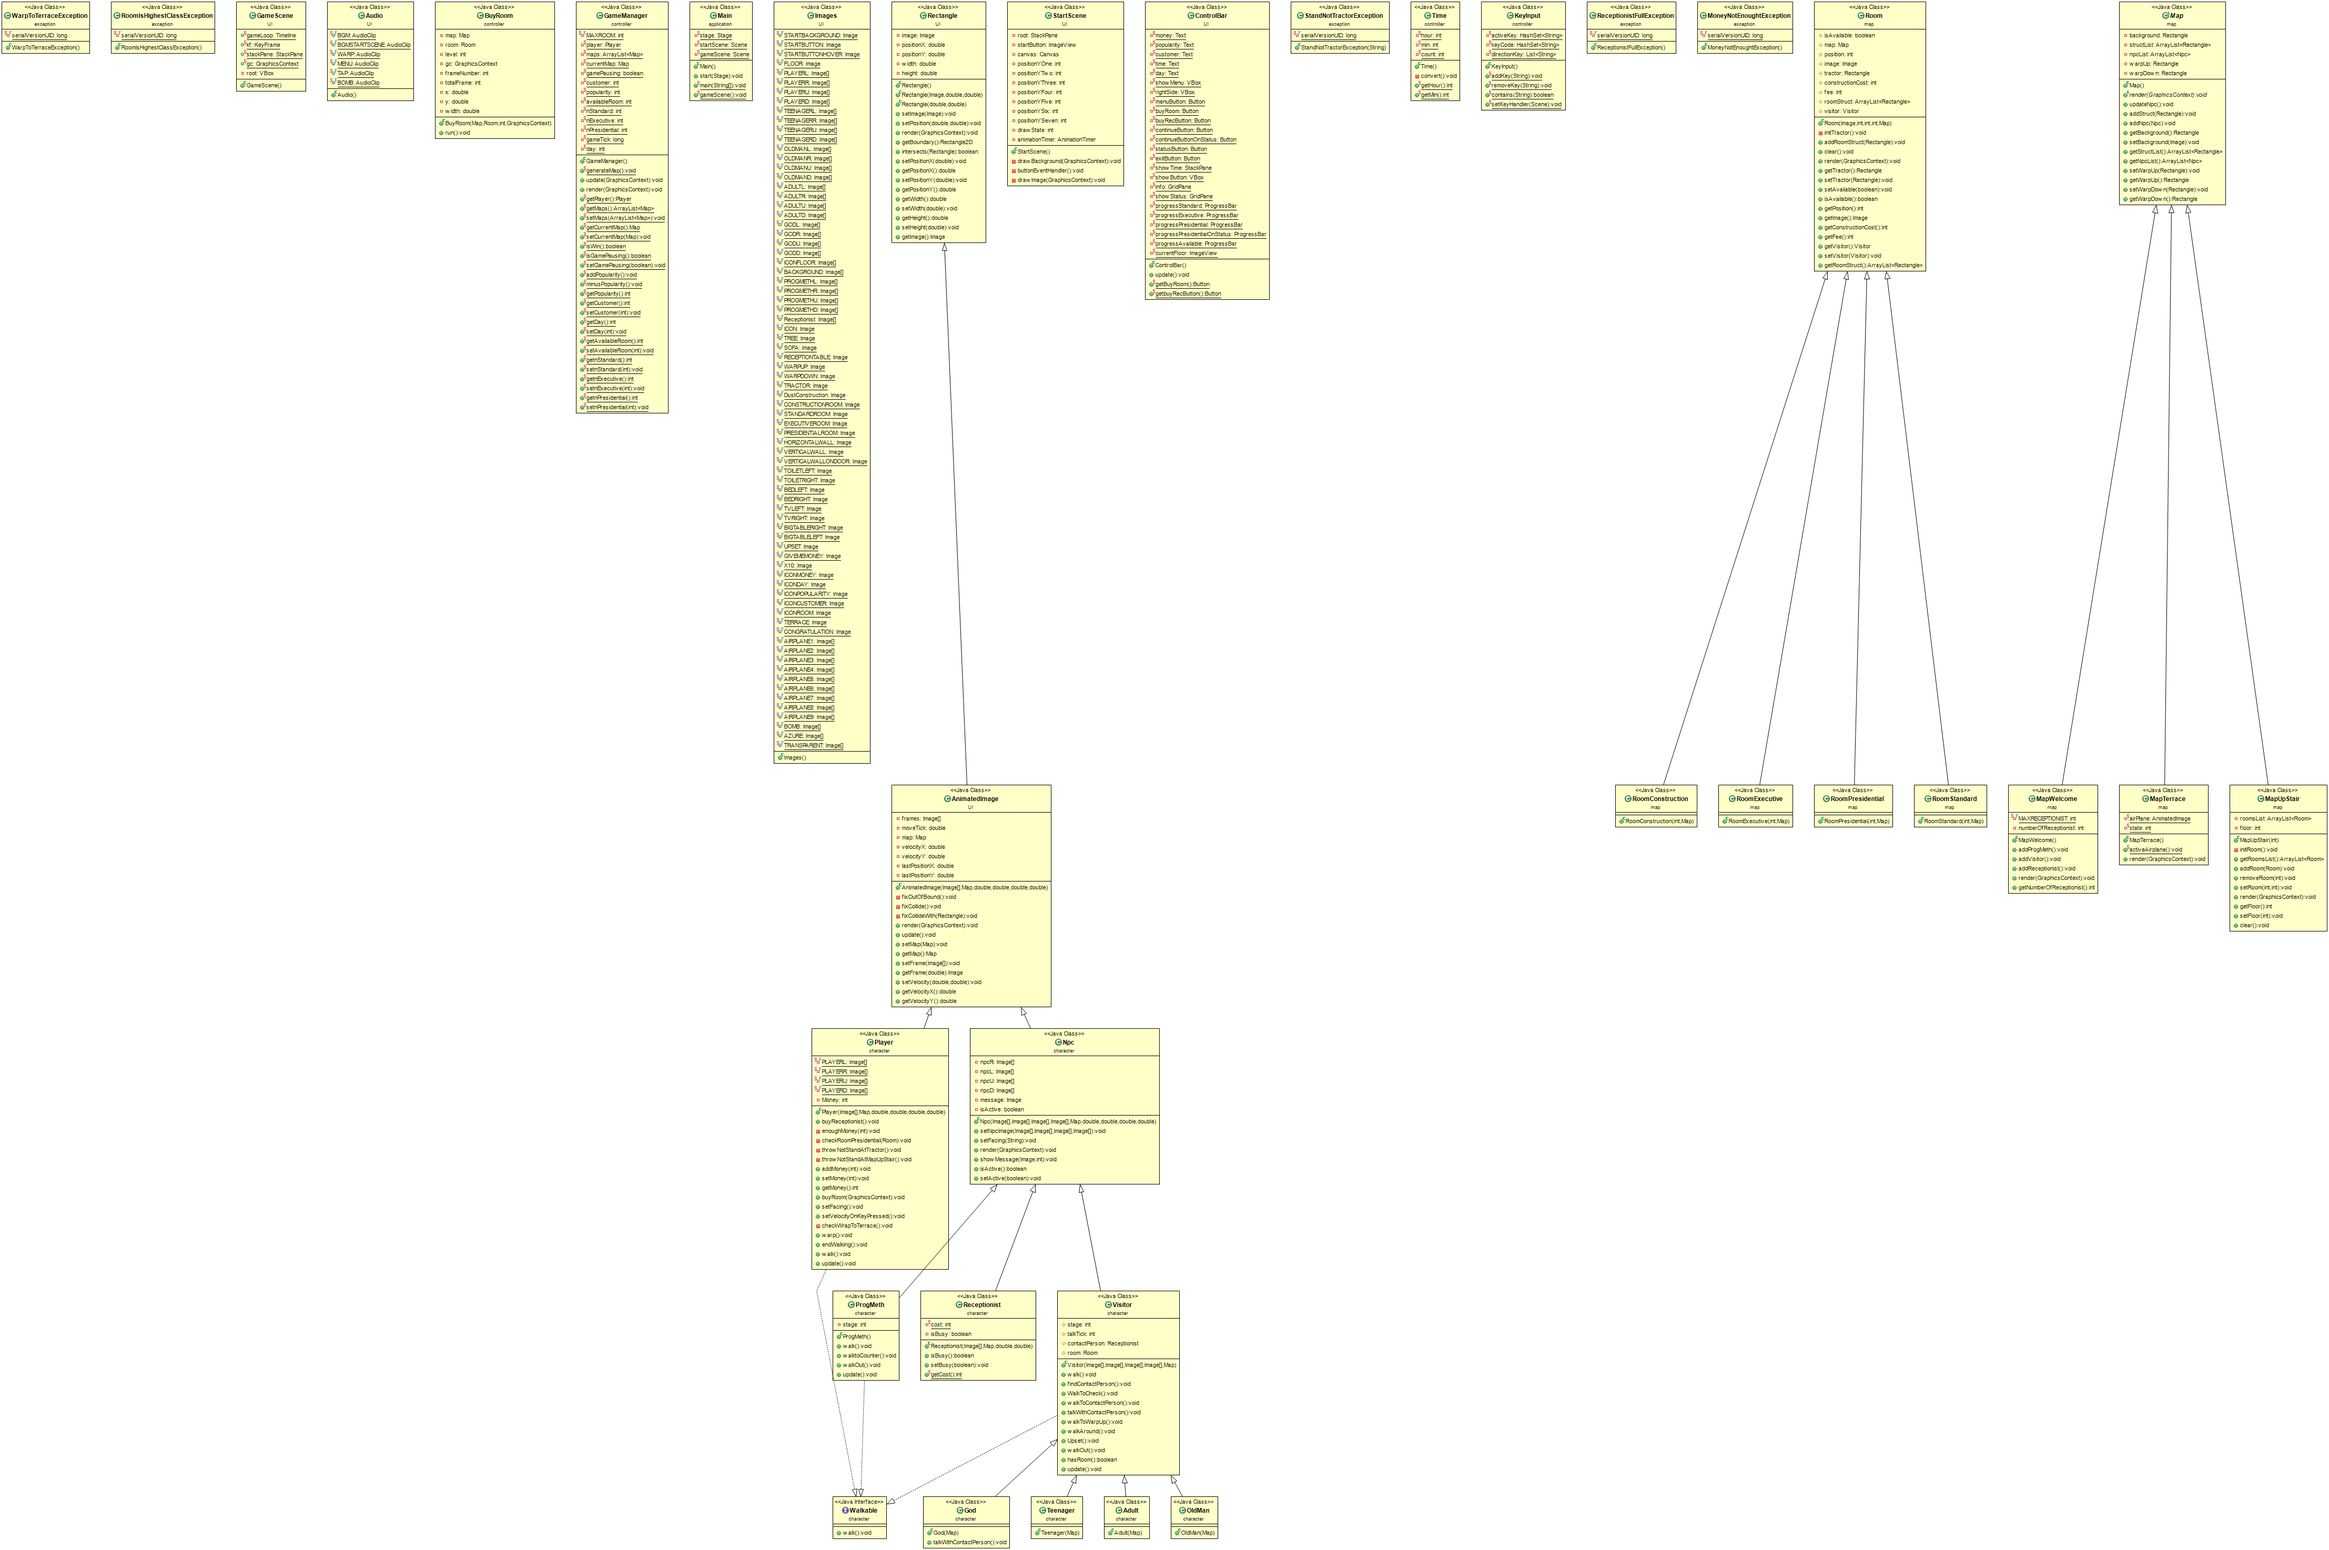
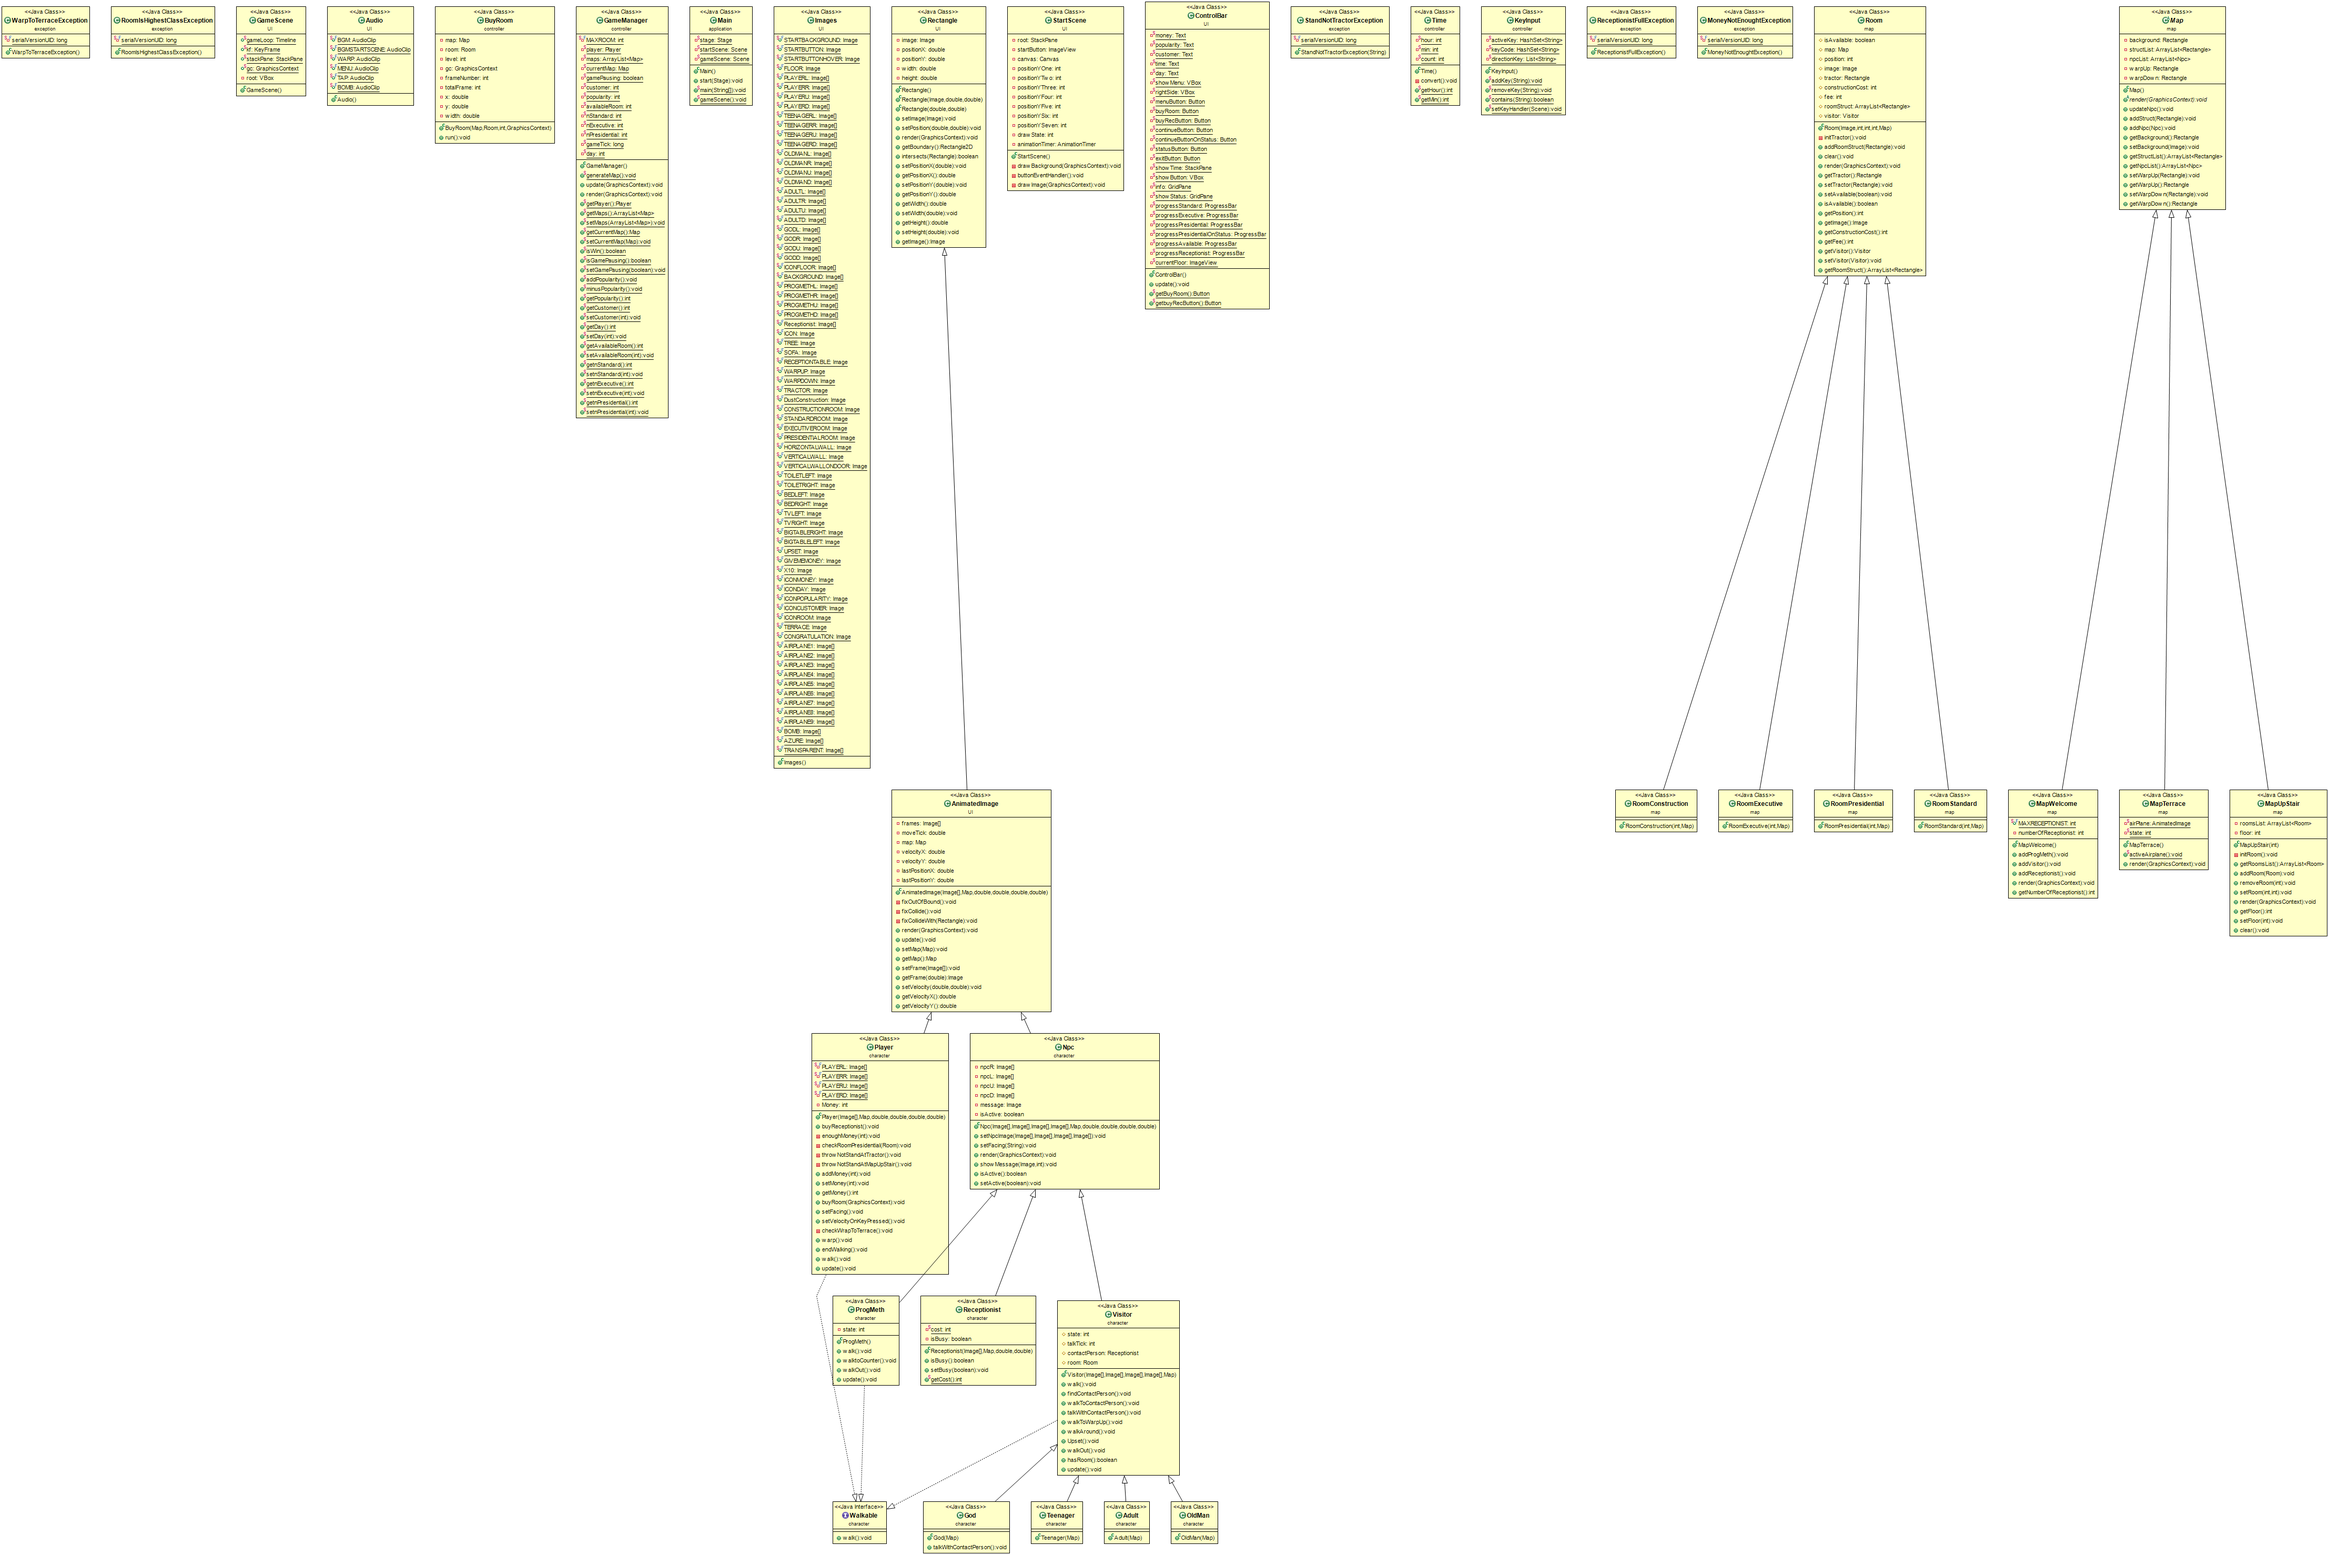
fix bug

diff --git a/src/UI/ControlBar.java b/src/UI/ControlBar.java
@@ -55,6 +55,7 @@ public class ControlBar extends HBox{
 	private static ProgressBar progressPresidential;
 	private static ProgressBar progressPresidentialOnStatus;
 	private static ProgressBar progressAvailable;
+	private static ProgressBar progressReceptionist;
 	private static ImageView currentFloor;
 	
 	public ControlBar() {
@@ -158,6 +159,9 @@ public class ControlBar extends HBox{
         showStatus.add(new Label("N' Available Room :"), 0, 5);
         progressAvailable = new ProgressBar(0);
         showStatus.add(progressAvailable, 1, 5);
+        showStatus.add(new Label("N' Receptionist :"), 0, 6);
+        progressReceptionist = new ProgressBar(0);
+        showStatus.add(progressReceptionist, 1, 6);
         showStatus.setVisible(false);
         GameScene.stackPane.getChildren().add(showStatus);
         
@@ -243,6 +247,7 @@ public class ControlBar extends HBox{
     	progressStandard.setProgress((double)GameManager.getnStandard()/18.0);
     	progressExecutive.setProgress((double)GameManager.getnExecutive()/18.0);
     	progressAvailable.setProgress((double)GameManager.getAvailableRoom()/18.0);
+    	progressReceptionist.setProgress((double)((MapWelcome)GameManager.getMaps().get(0)).getNumberOfReceptionist()/MapWelcome.MAXRECEPTIONIST);
     	if(GameManager.getCurrentMap() instanceof MapWelcome) {
     		currentFloor.setImage(Images.ICONFLOOR[1]);
     	}else if(GameManager.getCurrentMap() instanceof MapUpStair) {

diff --git a/src/character/God.java b/src/character/God.java
@@ -2,6 +2,7 @@ package character;
 
 import UI.Images;
 import controller.GameManager;
+import controller.KeyInput;
 import javafx.scene.control.Alert;
 import javafx.scene.control.Alert.AlertType;
 import map.Map;
@@ -15,6 +16,10 @@ public class God extends Visitor{
 		alert.setHeaderText("God visit your hotel");
 		alert.setContentText("You will receive massive of money from the god");
 		alert.show();
+		KeyInput.removeKey("UP");
+		KeyInput.removeKey("DOWN");
+		KeyInput.removeKey("LEFT");
+		KeyInput.removeKey("RIGHT");
 	}
 	
 	@Override

diff --git a/src/character/ProgMeth.java b/src/character/ProgMeth.java
@@ -2,6 +2,7 @@ package character;
 
 import UI.Images;
 import controller.GameManager;
+import controller.KeyInput;
 import javafx.scene.control.Alert;
 import javafx.scene.control.Alert.AlertType;
 
@@ -18,6 +19,10 @@ public class ProgMeth extends Npc implements Walkable{
 		alert.setHeaderText("Alian visit your hotel");
 		alert.setContentText("You will be stolen your money by them");
 		alert.show();
+		KeyInput.removeKey("UP");
+		KeyInput.removeKey("DOWN");
+		KeyInput.removeKey("LEFT");
+		KeyInput.removeKey("RIGHT");
 	}
 
 	@Override

diff --git a/src/map/MapWelcome.java b/src/map/MapWelcome.java
@@ -13,7 +13,7 @@ import exception.ReceptionistFullException;
 import javafx.scene.canvas.GraphicsContext;
 
 public class MapWelcome extends Map{
-	private static final int MAXRECEPTIONIST = 8;
+	public static final int MAXRECEPTIONIST = 8;
 	private int numberOfReceptionist;
 	
 	public MapWelcome(){
